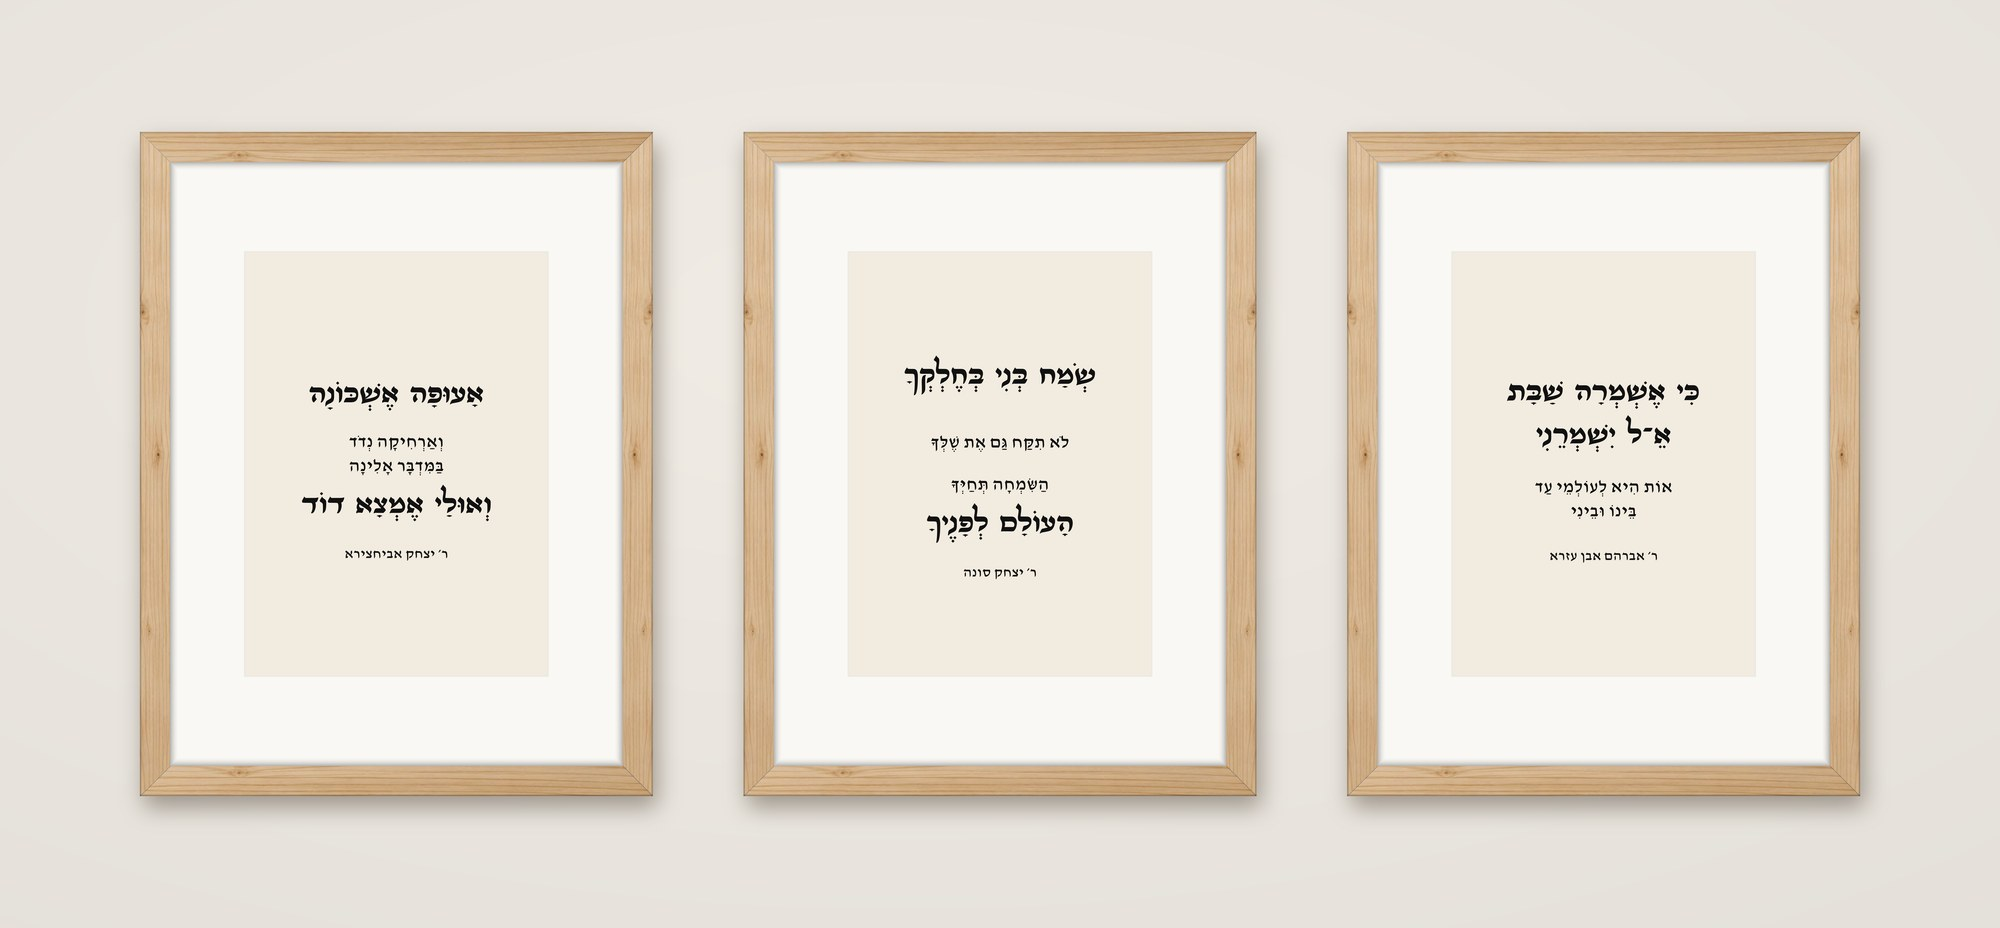
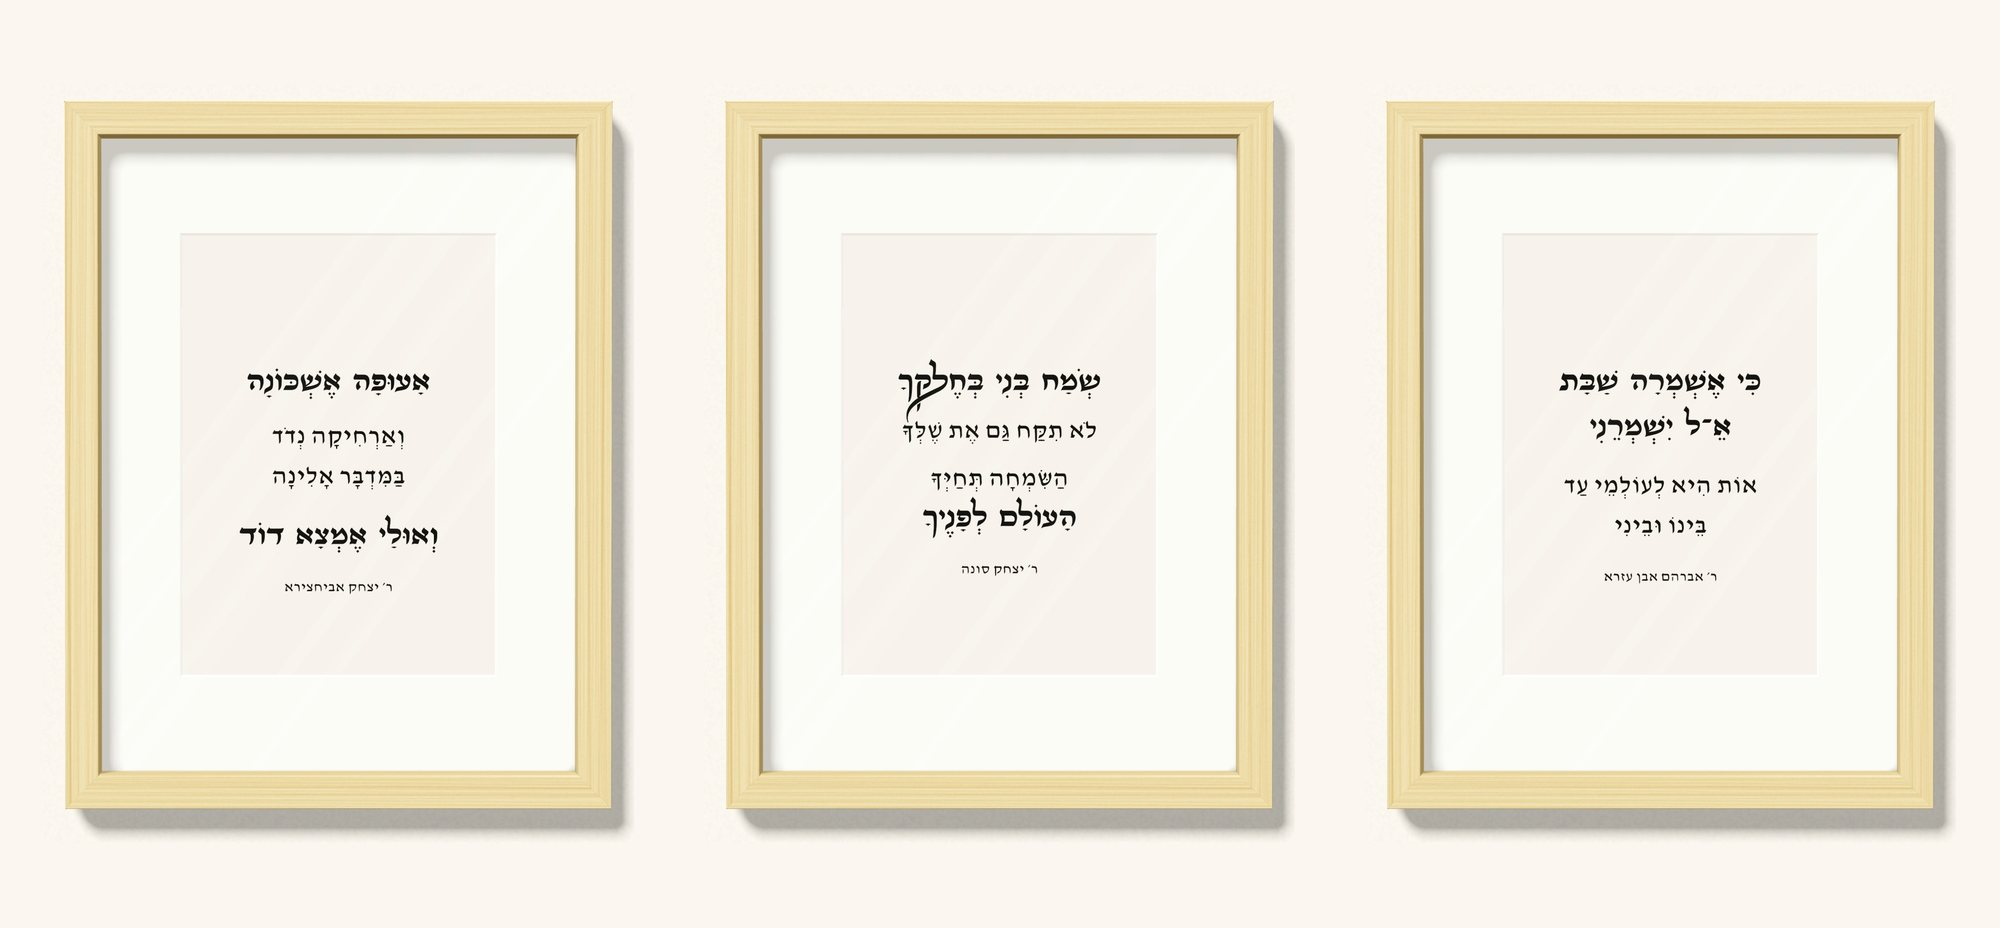
Shop: home triptych rebuilt from the mockups on the page colour; soft outline and shadow on frame-cropped photos so white frames stand out
Claude-Session: https://claude.ai/code/session_01QSLAfuaFXzrM1debw2C4W7

diff --git a/index.html b/index.html
@@ -104,7 +104,7 @@ nav a:hover{color:var(--ink)}
 @media (min-width:861px){#prints .item[href='#p8']{order:1}#prints .item[href='#p2'],#prints .item[href='#p4'],#prints .item[href='#p9']{order:2}}
 .item{text-decoration:none;display:flex;flex-direction:column;gap:12px}
 .item .ph{overflow:hidden}
-.fc{position:relative;overflow:hidden;aspect-ratio:809/1046;display:block}
+.fc{position:relative;overflow:hidden;aspect-ratio:809/1046;display:block;box-shadow:0 0 0 1px rgba(60,45,30,.10),0 2px 4px rgba(60,45,30,.10),0 10px 22px -6px rgba(60,45,30,.22)}
 .fc img{position:absolute;width:123.61%!important;max-width:none;height:auto!important;aspect-ratio:auto!important;left:-11.87%;top:-10.9%;object-fit:fill!important}
 .item img{width:100%;aspect-ratio:832/1171;object-fit:cover;display:block;transition:transform .5s ease}
 .item:hover img{transform:scale(1.03)}
@@ -377,7 +377,7 @@ function shop(){
       <a class="cta" href="#prints">בוחרים 2 או 3 הדפסים</a>
       <div class="facts"><span>זכוכית ופספרטו</span><span>מסגרת 30×40 ס״מ</span><span>משלוח עד הבית</span></div>
     </div>
-    <a href="img/hero-trip.jpg?v=1125" target="_blank" rel="noopener" aria-label="תמונה בגודל מלא" style="cursor:zoom-in"><img src="img/hero-trip.jpg?v=1125" alt="שלושה הדפסים ממוסגרים בעץ טבעי: אעופה אשכונה, שמח בני וכי אשמרה שבת" style="aspect-ratio:auto"></a>
+    <a href="img/hero-trip.jpg?v=1128" target="_blank" rel="noopener" aria-label="תמונה בגודל מלא" style="cursor:zoom-in"><img src="img/hero-trip.jpg?v=1128" alt="שלושה הדפסים ממוסגרים בעץ טבעי: אעופה אשכונה, שמח בני וכי אשמרה שבת" style="aspect-ratio:auto"></a>
   </section>
   <div class="deal"><div class="wrap">
     <div class="d"><span class="dn">הדפס 1</span><b>${nis(PRICE_FRAMED)}</b><span class="ds">+ משלוח</span></div>
